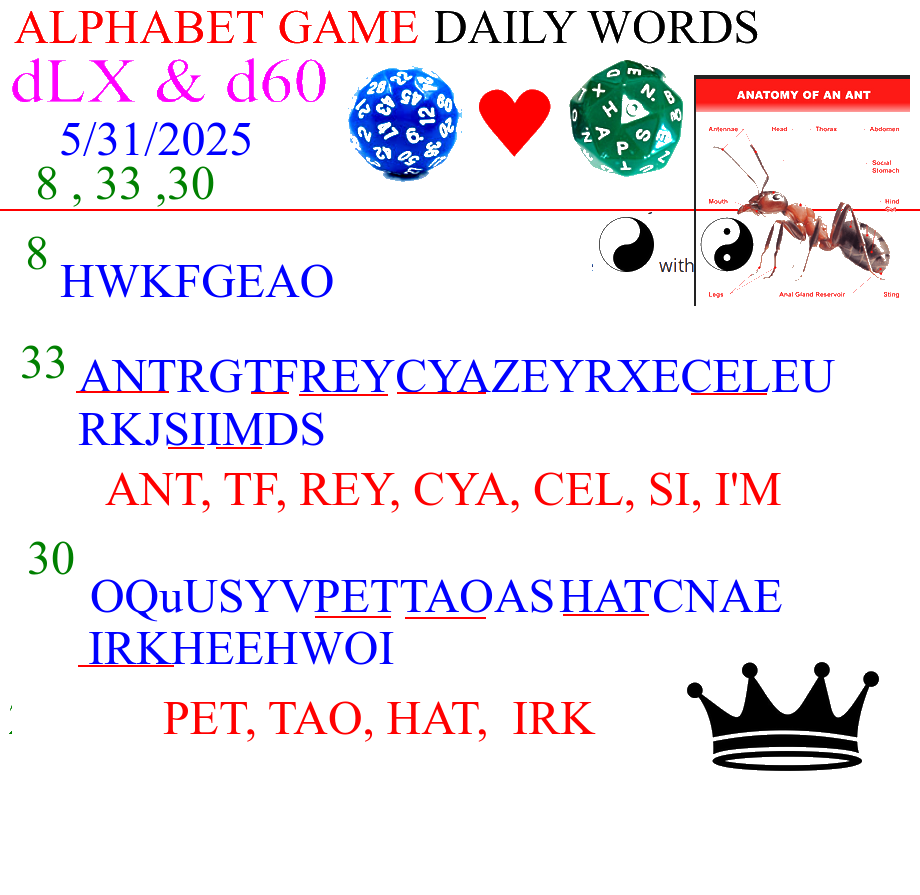
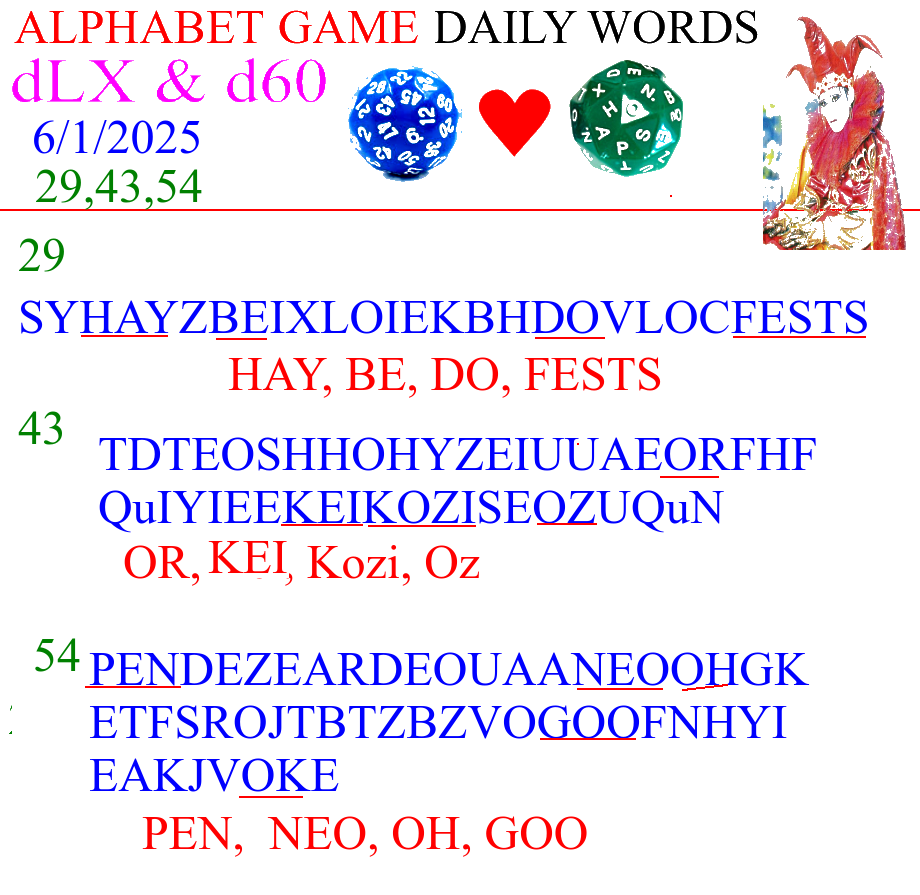
alphabetgame

Changed region(s): [[0.0, 0.0, 1.0, 0.9654], [0.4261, 0.905, 0.6391, 0.9654], [0.0304, 0.6034, 0.0913, 0.6335]]

diff --git a/information/secondlife/wafahistory.html b/information/secondlife/wafahistory.html
@@ -77,7 +77,7 @@
 		<p><img src="./img/ice1.png" width=auto; height=300> <img src="./img/ice2.png" width=auto; height=300>  <img src="./img/ice3.png" width=auto; height=300>
 		<br><font color=black size=3><i>icicle bunny.. who has many different outfits! she was my first avatar to have many hair styles.. there was a time where she was the one i used the most. she became the design of TA from my RGB PAW fiction. all three megamaiden designs came from Second Life avatars actually, but thats a story for later</i></font>
 		<hr color=red>
-		<font color=red size=5>
+		<font color=darkred size=5>
 		<p>2019 and into 2020 cherry head wasn't that present, most anime avatars were using ASR or M3
 	
 		<p>i remember at this time ASR head was starting to pick up more with english speaking SL players. in japanese sims, pretty much everyone was wearing ASR, and this bled over. there was a tangible shift, a lot of mods were being made for it and i started making my own too.
@@ -86,7 +86,8 @@
 		<p>there this feeling wearing wafa that i only felt if i was in a group.. she felt really cartoonish in comparison to most players
 		<p>
 		early on, a stranger told me "you're the first person i see to be mesh in a sea of prim", referring to the flexi hair
-		<br>i still think flexi hair and flat 2d head look really good, but it seemed 'outdated' to many at the time, i think it still is that way for some
+		<p>i still think flexi hair and flat 2d head look really good, but it seemed 'outdated' to many at the time.
+		<br>it still kinda is that way in some places.
 		<p>..basically i was exposed to some stifling standards, so it took some time to feel comfortable experimenting and doing what i wanted, using SL to its full capacity
 		<p>luckily this didn't take long. i felt in my own lane by 2021.
 		</font>
@@ -108,7 +109,7 @@
 
 	<br>		</font>
 	<hr color=red>
-		<font color=red size=5>
+		<font color=darkred size=5>
 	<p>	eventually i started tinting modify enabled clothing, which removed a lot of dissonance and discomfort i  experienced with all my outfits until then
 		<br> i realized with things that are modify, i could just make them look more flat and conform to the colors i really love
 		<p><img src="./img/oldwafa8.png" width=auto; height=400> <img src="./img/oldwafa9.png" width=auto; height=400>
@@ -142,9 +143,10 @@
 		<hr color=red>
 		<font color=green size=5>
 		i've slowly stopped making other avatars, mainly because its expensive time-wise & money-wise and i end up not really wearing them
-		<p> a lot of that energy now goes into building and maintaining conejo, i usually want to just relax on SL otherwise because i spend a lot of time doing VN work..avatar making comes from a similar place as drawing for me, which is to say it is usually draining energy that is more valuable for other uses
+		<p> a lot of that energy now goes into building and maintaining conejo, i usually want to just relax on SL otherwise
+		<br>i spend a lot of time doing VN work..		<br>second life can feel like work depending on what you do, which isn't a bad thing if you've got the energy
+		<p>avatar making comes from a similar place as drawing for me, which is to say it is usually draining energy that is more valuable for other uses
 		
-		<p>eitherway, i don't get sick of wearing wafa because i see so many cool avatars show up in conejo
 		
 		<p>i still feel very fond of icicle bunny and vampire bunny, and i have some other characters that i'd like to update ..but if im ever in the mood, i end up making new outfits for wafa.
 
@@ -165,9 +167,10 @@
 		<br>it becomes a type of blurry roleplaying.
 		<p>
 		<br>you aren't <i>consiously writing</i> a story, 
-		<br>just by doing things in the avatar, their experiences happen and pile up into something that is similar to when you do purposefully roleplay and write up a scenario
+		<br>just by doing things in the avatar, their experiences happen and pile up into something
+		<br>with a similar feeling to what comes out when you purposefully roleplay and write up a scenario
 		<p>
-		wafa has lived a lot through me, and i've lived a lot through her.. there is still more to learn	
+		wafa has lived a lot through me, and i've lived a lot through her..and there is still more to learn	
 		<p>
 	
 	<a href="https://yogurt200.com/diary/index.html">SECOND LIFE DIARY INDEX</a>

diff --git a/information/secondlife/diary.html b/information/secondlife/diary.html
@@ -46,19 +46,21 @@
 		<font color=red size=6>..MORE THOUGHTS ABOUT THE DIARY</font>
 		<hr color=blue>
 		<font color=green size=5>
-		 i started doing the diary during a dark time where second life became the sole light in my life
+		 i started doing the diary during a dark time
+		 <br>second life had become the sole light in my life
 		 <p>in the beginning, i 'lived' in second life a lot more
 		 <p>this is no longer the case, but because most of my relationships have come from conejo, the line is still blurred
 
 		 <p>
 		  improvisation & chance has always been my strong suit, a major part of how i work.. 
-		 <br>it wasn't intentional to have a diary  that feels so personal be one of my major outputs, but it makes sense in a lot of ways.
+		  <br>second life is a great way to work that muscle because its very 'make your own fun'
+		  <br>the diary is really fun.. and its barely any effort. its good to have projects that are fun and simple to do, to balance out the grueling ones.
 
 		</font>
 		<font color=blue size=5>
 		 <p>
-		i look through the diary and i see my life clearly.
-		<br>it activates vivid memories of what i was doing irl at the time, or what the time <i>felt</i> like, and its really magical.
+		i look through the diary and i see my life very vividly.
+		<br>it activates strong memories of what i was doing irl at the time, or what the time <i>felt</i> like.. it gives me special feelings and i love it
 		<p>
 		i see relationships that have fallen apart, things that havent worked out, ways things have changed . . . 
 		<br>the diary makes it all beautiful, leaving no bad taste in my mouth.

diff --git a/rgbpaw/reports/newsboard.html b/rgbpaw/reports/newsboard.html
@@ -1,5 +1,5 @@
 <html>
-	<head><title>RGB RABBIT PAW</title></head>
+	<head><title>RABBITMAIDEN NEWS</title></head>
 	<link rel="stylesheet" href="style.css">
 	<body>
 		<div>
@@ -33,7 +33,7 @@
 		<li>main index overhauled..! 
 		<li> <a href="https://yogurt200.com/rgbpaw/gallery/index.html">NEW GALLERY</a> for my newer art.. i'm taking a different approach this time by diving the galleries by category
 		<li> <a href="https://yogurt200.com/information/index.html">INFORMATION BOOTH</a> a new area of my site, where things like the F.A.Q go. i've written a new F.A.Q & bio, alongside a couple second life pages.. i have a lot of plans for this area..
-		<li><a href="https://yogurt200.com/rgb/reports/blog.html">PINK RABBIT BLOG</a> a new blog for me to write in.. experimental. i can't tell you what to expect		<li>rss feed kinda failed. i need a little more time for that
+		<li><a href="https://yogurt200.com/rgbpaw/reports/blog.html">PINK RABBIT BLOG</a> a new blog for me to write in.. experimental. i can't tell you what to expect		<li>rss feed kinda failed. i need a little more time for that
 		</ul>
 		<hr color=pink size=4>		
 		<p><i>this update is foundation for a much bigger update i'll be doing when i finish my VN. 

diff --git a/rgbpaw/reports/abc.html b/rgbpaw/reports/abc.html
@@ -1,5 +1,5 @@
 <html>
-	<head><title>RGB RABBIT PAW</title></head>
+	<head><title>DAILY WORD GAME</title></head>
 	<link rel="stylesheet" href="style.css">
 	
 
@@ -18,7 +18,7 @@ div{
 		
 		<hr color=yellow>
 		<font color=red>
-			<a href="https://yogurt200.com/reports/abc/how.html">how i play this</a> <img src="./img/heart.png" width=auto; height=20> <a href="https://yogurt200.com/reports/blog.html">return to blog</a></div>
+			<a href="https://yogurt200.com/rgbpaw/reports/abc/how.html">how i play this</a> <img src="./img/heart.png" width=auto; height=20> <a href="https://yogurt200.com/rgbpaw/reports/blog.html">return to blog</a></div>
 		
 		</center>
 	</body>

diff --git a/information/secondlife/style.css b/information/secondlife/style.css
@@ -34,7 +34,7 @@ div{
             background-color:#fff8dc;
             word-wrap: break-word;
             width: 700px;
-            border: 2px solid blue;	
+            border: 3px solid blue;	
 	    box-shadow: 0 0 0px #ff0000;
             margin:50px auto;
             padding:29px;

diff --git a/rgbpaw/reports/blog.html b/rgbpaw/reports/blog.html
@@ -1,5 +1,5 @@
 <html>
-	<head><title>RGB RABBIT PAW</title></head>
+	<head><title>red eyes pink rabbit blog</title></head>
 	<link rel="stylesheet" href="style.css">
 <style>
 div{
